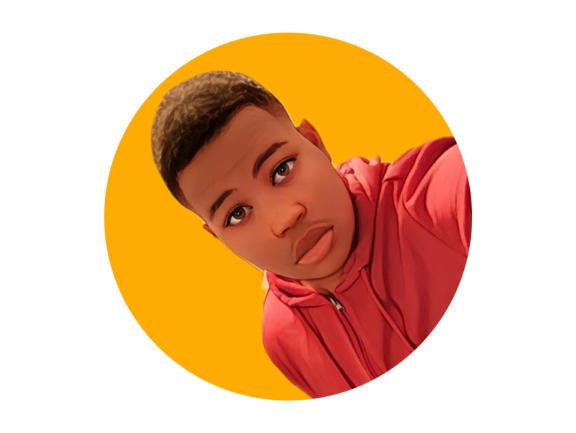
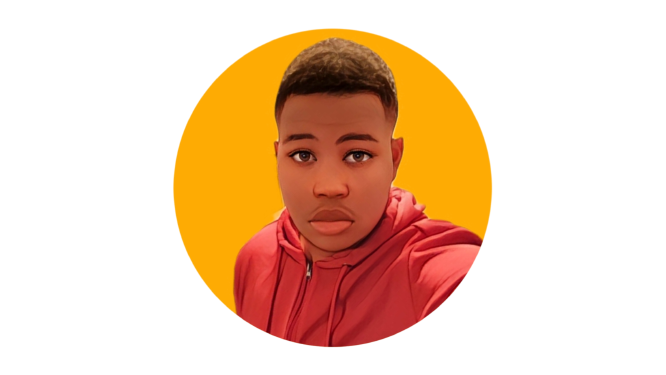
a

diff --git a/pages/index.jsx b/pages/index.jsx
@@ -2,11 +2,7 @@ import Image from "next/image";
 import naruto from '../public/naruto.png'
 import styles from '../styles/Accueil.module.css'
 import Presentation from "../component/Presentation";
-import AproposContenu from '../component/AproposContenu';
-import Projet1 from './android';
-import Projet2 from './web';
-import Education from "../component/Education";
-import ProjetFullPage from "../component/ProjetFullPage";
+
 import { useRef,useEffect,useState } from 'react'
 import Link from "next/link";
 
@@ -29,7 +25,7 @@ export default function Accueil() {
                     <div className="d-flex gap-5 flex-md-row flex-column">
 
                     <button className="btn btn-lg border-primary shadow-lg" id="download">Telechager CV <i className="bi bi-download animate__animated animate__bounceInDown"></i></button>
-                    <Link href="/contact"><button className="btn btn-lg border-primary shadow-lg bg-none text-white d-flex gap-3">Embauche Moi <i className="bi bi-telephone animate__animated animate__bounceInDown"></i></button></Link>
+                    <Link href="/contact"><button className="btn btn-lg border-primary shadow-lg bg-none text-white d-flex gap-3">Contactez-Moi <i className="bi bi-telephone animate__animated animate__bounceInDown"></i></button></Link>
                     </div>
                 </div>
             </div>

diff --git a/styles/Nom_Logo.module.css b/styles/Nom_Logo.module.css
@@ -17,7 +17,7 @@
 
 }
 .nom .image{
-    width: 80px;
-    height: 60px;
+    width: 100px;
+    height: auto;
     transform: rotate(45deg);
 }

diff --git a/styles/Accueil.module.css b/styles/Accueil.module.css
@@ -1,6 +1,7 @@
 .image{
-    width: 25rem;
+    width: 20rem;
     height: auto;
+    margin-right: 30px;
 }
 
 .wrapper{
